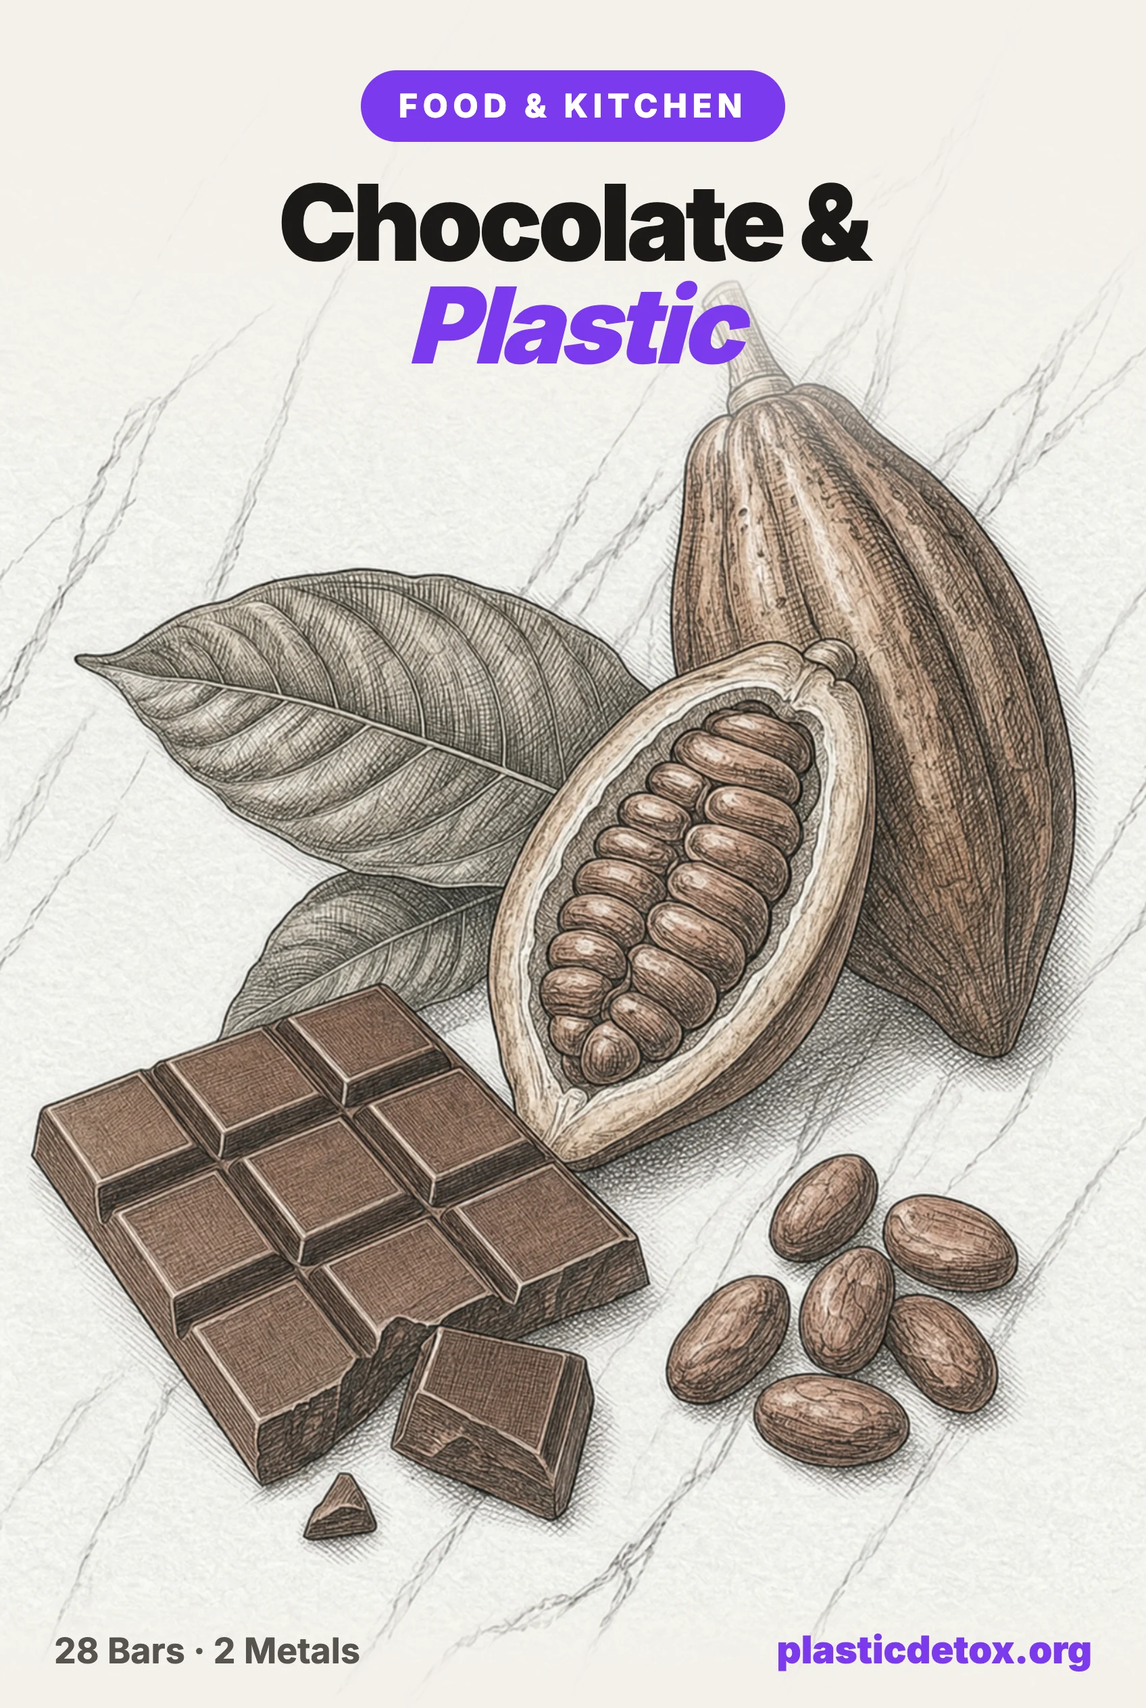
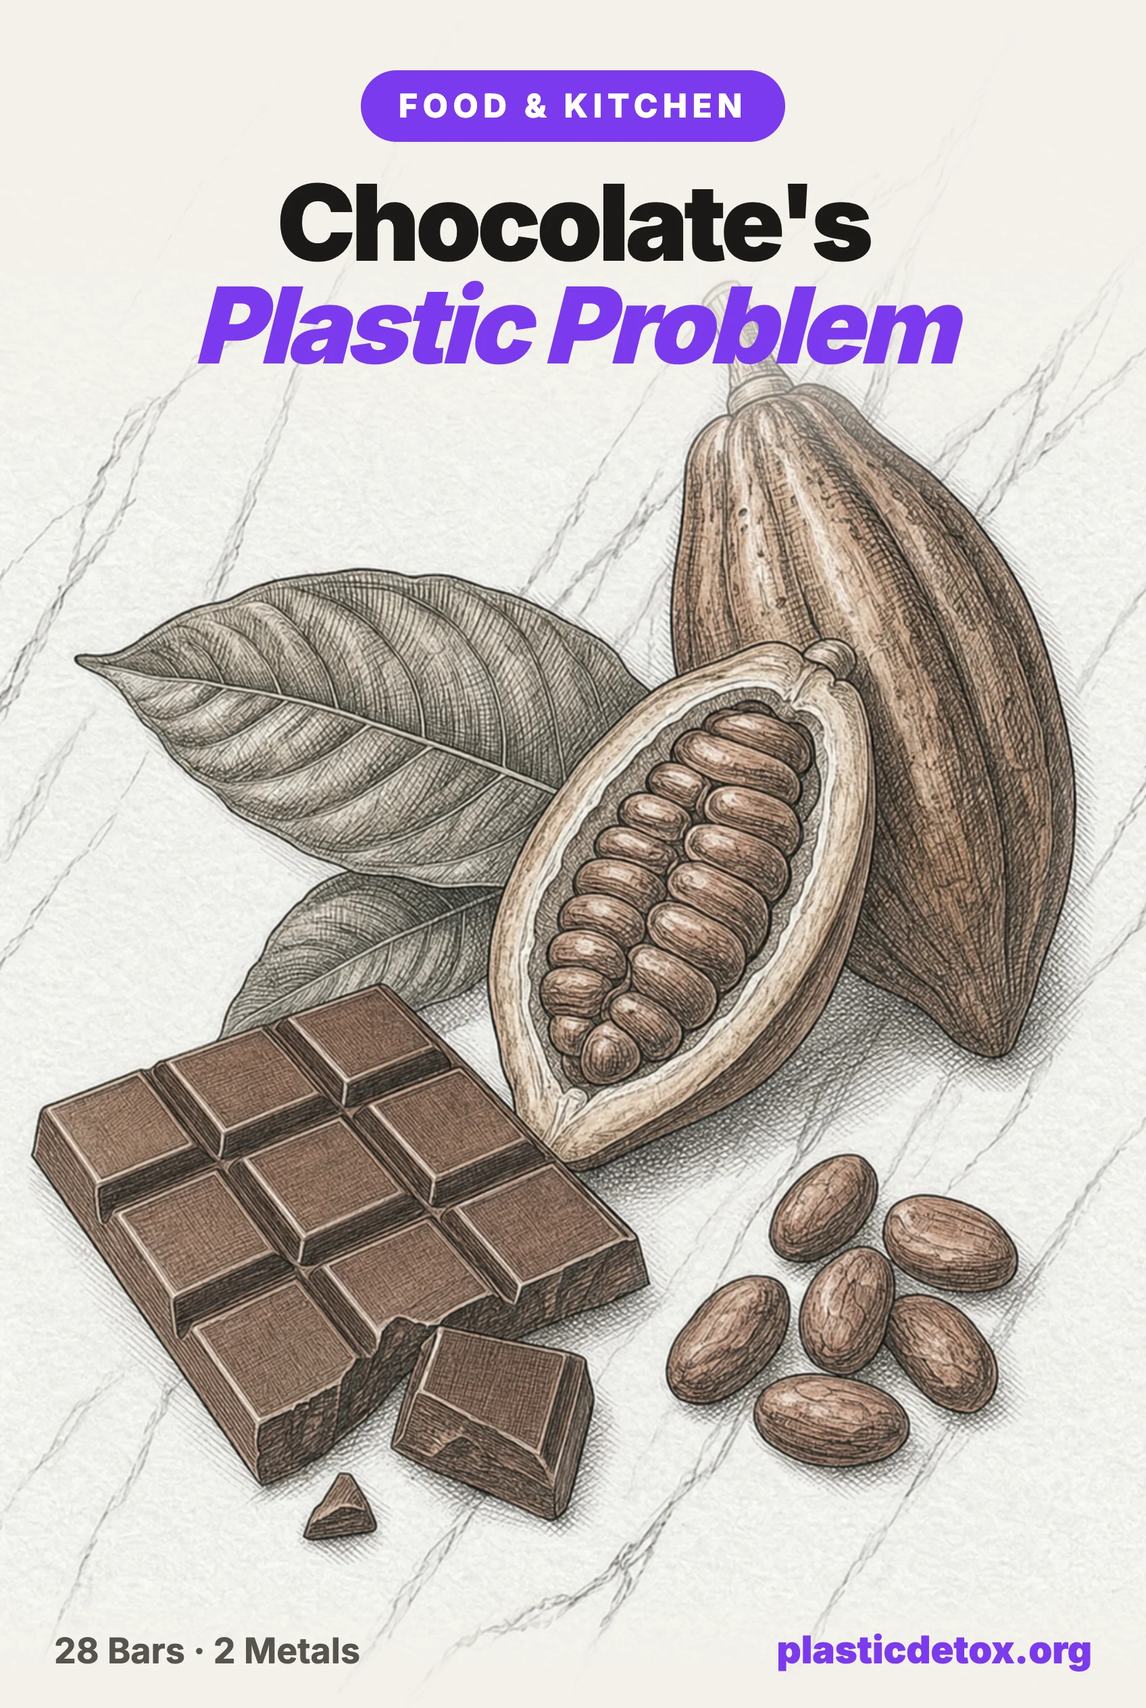
Retitle for hero consistency, sharpen the headline, and answer plastic-free chocolate
Anya caught two things: the page title still said the old "Chocolate Brands
Tested for Lead and Cadmium: 28 Bars Compared" after the hero got its plastic
angle, and the hero headline "Chocolate & Plastic" was flat. Retitled
everywhere (title, H1, meta, OG, Twitter, JSON-LD, both breadcrumbs, homepage
card) to "Chocolate's Plastic Problem: 28 Brands Tested for Lead and Cadmium
(2026)", and re-rendered the hero with "Chocolate's / Plastic Problem" as the
baked-in headline, diffed against the canonical template again to confirm
only the five content lines moved.

Also, two content requests: linked all five of the "safer" bars named in the
TL;DR bullet (Mast, Taza, Valrhona, both Ghirardelli variants) to verified
live ASINs instead of leaving them as plain text. And answered "what about
chocolate without plastic": Alter Eco and Equal Exchange both use genuine
plastic free cellulose wrappers (Alter Eco built the first home compostable
candy wrapper in 2013), while Hershey's is on record dropping foil for direct
plastic film in 2003. Worth knowing before treating it as a positive signal:
Alter Eco and Equal Exchange are also two of the worst cadmium results in the
whole 28 bar dataset, 204 and 120 percent of California's limit. Packaging
virtue and formula safety are separate checks, one does not imply the other.
Added as a new FAQ, a callout in the plastic section, and matching sources.

Changed region(s): [[0.1562, 0.0938, 0.8438, 0.2188]]

diff --git a/articles/chocolate-brands-tested-for-lead-and-cadmium.html b/articles/chocolate-brands-tested-for-lead-and-cadmium.html
@@ -7,14 +7,14 @@
        name and gives the page no say in it, which on an individual developer
        account is a person's legal name above every page on the site. -->
   <script src="/js/app-banner.js" defer></script>
-  <title>Chocolate Brands Tested for Lead and Cadmium (2026): 28 Bars Compared | Plastic Detox</title>
-  <meta name="description" content="Independent lab testing of 28 dark chocolate bars found lead and cadmium in every single one, and 23 of them broke California's own legal warning threshold. See the full brand by brand results, why milk chocolate is not automatically safer, and what actually reduces the risk.">
+  <title>Chocolate's Plastic Problem: 28 Brands Tested for Lead and Cadmium (2026) | Plastic Detox</title>
+  <meta name="description" content="Independent lab testing of 28 dark chocolate bars found lead and cadmium in every single one, and 23 broke California's own legal warning threshold. Also: what a plastic wrapper and a hot cocoa pod can add to it. See the full brand by brand results.">
   <link rel="icon" type="image/png" sizes="48x48" href="../favicon.png">
   <link rel="icon" type="image/svg+xml" href="../favicon.svg">
   <link rel="canonical" href="https://plasticdetox.org/articles/chocolate-brands-tested-for-lead-and-cadmium.html">
 
   <meta property="og:type" content="article">
-  <meta property="og:title" content="Chocolate Brands Tested for Lead and Cadmium (2026): 28 Bars Compared">
+  <meta property="og:title" content="Chocolate's Plastic Problem: 28 Brands Tested for Lead and Cadmium (2026)">
   <meta property="og:description" content="Independent lab testing of 28 dark chocolate bars found lead and cadmium in every single one, and 23 broke California's own legal warning threshold. See the full results, brand by brand.">
   <meta property="og:image" content="https://plasticdetox.org/images/chocolate-brands-tested-for-lead-and-cadmium-article-hero.webp">
   <meta property="og:image:width" content="848">
@@ -23,7 +23,7 @@
   <meta property="og:site_name" content="Plastic Detox">
 
   <meta name="twitter:card" content="summary_large_image">
-  <meta name="twitter:title" content="Chocolate Brands Tested for Lead and Cadmium (2026): 28 Bars Compared">
+  <meta name="twitter:title" content="Chocolate's Plastic Problem: 28 Brands Tested for Lead and Cadmium (2026)">
   <meta name="twitter:description" content="Independent lab testing found lead and cadmium in all 28 dark chocolate bars tested, and 23 broke California's own legal warning threshold. Here is what the numbers show, brand by brand.">
   <meta name="twitter:image" content="https://plasticdetox.org/images/chocolate-brands-tested-for-lead-and-cadmium-article-hero.webp">
 
@@ -35,7 +35,7 @@
   {
     "@context": "https://schema.org",
     "@type": "Article",
-    "headline": "Chocolate Brands Tested for Lead and Cadmium (2026): 28 Bars Compared",
+    "headline": "Chocolate's Plastic Problem: 28 Brands Tested for Lead and Cadmium (2026)",
     "description": "Independent lab testing of 28 dark chocolate bars found lead and cadmium in every single one, and 23 of them broke California's own legal warning threshold. See the full brand by brand results and what actually reduces the risk.",
     "image": "https://plasticdetox.org/images/chocolate-brands-tested-for-lead-and-cadmium-article-hero.webp",
     "author": { "@type": "Organization", "name": "Plastic Detox Editorial Team", "url": "https://plasticdetox.org/about.html" },
@@ -106,6 +106,14 @@
           "@type": "Answer",
           "text": "Hot cocoa K-Cups from Swiss Miss and Starbucks use the same single serve plastic pod format as coffee K-Cups, near boiling water forced through a sealed plastic capsule under pressure. A 2020 McGill University study found a single plastic coffee pod releases 2.3 to 7.9 billion nanoplastic particles into one cup; no test has been run on a hot cocoa pod specifically, but the pod material and brewing mechanism are identical, so there is no reason to expect a different result. Loose cocoa powder whisked into hot milk or water heated on a stovetop or kettle avoids the pod entirely."
         }
+      },
+      {
+        "@type": "Question",
+        "name": "Are there chocolate bars without plastic packaging?",
+        "acceptedAnswer": {
+          "@type": "Answer",
+          "text": "Yes, and it is a real material, not a greenwashing claim. Alter Eco built the first home compostable candy wrapper in 2013 using Natureflex, a cellulose film made from FSC certified eucalyptus and birch, and Equal Exchange wraps its bars in a similar wood pulp cellulose film. Hershey's, by contrast, is on record dropping its classic foil wrap for a direct plastic film wrapper in 2003 to extend shelf life. But a plastic free wrapper says nothing about what is in the chocolate: Alter Eco's cadmium tested at 204 percent of California's legal limit, the second worst of the 28 bars in this dataset, and Equal Exchange's at 120 percent. Packaging and formula are two separate checks, and neither predicts the other."
+        }
       }
     ]
   }
@@ -119,7 +127,7 @@
     "itemListElement": [
       {"@type": "ListItem", "position": 1, "name": "Home", "item": "https://plasticdetox.org/"},
       {"@type": "ListItem", "position": 2, "name": "Articles", "item": "https://plasticdetox.org/#articles"},
-      {"@type": "ListItem", "position": 3, "name": "Chocolate Brands Tested for Lead and Cadmium", "item": "https://plasticdetox.org/articles/chocolate-brands-tested-for-lead-and-cadmium.html"}
+      {"@type": "ListItem", "position": 3, "name": "Chocolate's Plastic Problem", "item": "https://plasticdetox.org/articles/chocolate-brands-tested-for-lead-and-cadmium.html"}
     ]
   }
   </script>
@@ -207,11 +215,11 @@
 
   <article class="article">
     <div class="article-breadcrumb">
-      <a href="../">Home</a> / <a href="../#articles">Articles</a> / Chocolate Brands Tested for Lead and Cadmium
+      <a href="../">Home</a> / <a href="../#articles">Articles</a> / Chocolate's Plastic Problem
     </div>
 
     <div class="article-tag">Food &amp; Kitchen</div>
-    <h1>Chocolate Brands Tested for Lead and Cadmium (2026): 28 Bars Compared</h1>
+    <h1>Chocolate's Plastic Problem: 28 Brands Tested for Lead and Cadmium (2026)</h1>
     <div class="article-byline">By the <a href="../about.html">Plastic Detox Editorial Team</a></div>
     <div class="article-meta">
       Updated September 29, 2026 · 15 min read · <em>This article contains affiliate links. If you purchase through our links, we may earn a small commission at no extra cost to you.</em>
@@ -222,7 +230,7 @@
         <svg viewBox="0 0 24 24"><path d="M12 0C5.373 0 0 5.373 0 12c0 5.084 3.163 9.426 7.627 11.174-.105-.949-.2-2.405.042-3.441.218-.937 1.407-5.965 1.407-5.965s-.359-.719-.359-1.782c0-1.668.967-2.914 2.171-2.914 1.023 0 1.518.769 1.518 1.69 0 1.029-.655 2.568-.994 3.995-.283 1.194.599 2.169 1.777 2.169 2.133 0 3.772-2.249 3.772-5.495 0-2.873-2.064-4.882-5.012-4.882-3.414 0-5.418 2.561-5.418 5.207 0 1.031.397 2.138.893 2.738a.36.36 0 0 1 .083.345l-.333 1.36c-.053.22-.174.267-.402.161-1.499-.698-2.436-2.889-2.436-4.649 0-3.785 2.75-7.262 7.929-7.262 4.163 0 7.398 2.967 7.398 6.931 0 4.136-2.607 7.464-6.227 7.464-1.216 0-2.359-.631-2.75-1.378l-.748 2.853c-.271 1.043-1.002 2.35-1.492 3.146C9.57 23.812 10.763 24 12 24c6.627 0 12-5.373 12-12S18.627 0 12 0z"/></svg>
         Save
       </a>
-      <img class="pin-img" fetchpriority="high" src="../images/chocolate-brands-tested-for-lead-and-cadmium-article-hero.webp" alt="Pencil illustration of chocolate bars and a cacao pod with the headline chocolate and plastic" data-pin-description="Independent testing of 28 dark chocolate bars found lead and cadmium in every single one, and 23 broke California's own legal warning threshold. See the full results by brand.">
+      <img class="pin-img" fetchpriority="high" src="../images/chocolate-brands-tested-for-lead-and-cadmium-article-hero.webp" alt="Pencil illustration of chocolate bars and a cacao pod with the headline chocolate's plastic problem" data-pin-description="Independent testing of 28 dark chocolate bars found lead and cadmium in every single one, and 23 broke California's own legal warning threshold. See the full results by brand.">
     </div>
 
     <p>Consumer Reports sent 28 dark chocolate bars to an independent lab in 2022 and detected both lead and cadmium in every one of them. For 23 of the 28, an ounce a day was enough to exceed California's own legal threshold for at least one of the two metals, the level that by law has to trigger a cancer and reproductive harm warning label. This is not a new scare or a single bad batch. It is a decade old, heavily litigated, extensively tested problem that the chocolate industry itself has funded research into and still has not fixed. Here is what the actual numbers show, brand by brand, and what to do with that information.</p>
@@ -234,7 +242,7 @@
         <li><strong>The two metals get into cacao through completely different routes.</strong> Cadmium is absorbed from the soil as the tree grows. Lead lands on the outside of the bean as it dries in the open, picked up from dust and dirt, often near roads.</li>
         <li><strong>Organic is not a shortcut to clean.</strong> Several of the worst results, including Alter Eco, Equal Exchange, Endangered Species and Theo, were organic certified. Organic rules govern pesticides, not heavy metals.</li>
         <li><strong>This has been litigated since 2014 and is still not resolved.</strong> A 2018 settlement with 31 chocolate makers funded independent research and set the thresholds Consumer Reports later tested against. Hershey's own products have failed two separate rounds of independent testing since.</li>
-        <li><strong>Five bars tested meaningfully lower than the rest.</strong> One each from Mast, Taza and Valrhona, and two from Ghirardelli, though none was a clean, non detect result.</li>
+        <li><strong>Five bars tested meaningfully lower than the rest.</strong> One each from <a href="https://www.amazon.com/dp/B0DDJTJPRP?tag=plasticdetox-20" target="_blank" rel="noopener sponsored">Mast</a>, <a href="https://www.amazon.com/dp/B07XDP4CP1?tag=plasticdetox-20" target="_blank" rel="noopener sponsored">Taza</a> and <a href="https://www.amazon.com/dp/B00G9Q6W3I?tag=plasticdetox-20" target="_blank" rel="noopener sponsored">Valrhona</a>, and two from Ghirardelli (<a href="https://www.amazon.com/dp/B07PL9ZRYG?tag=plasticdetox-20" target="_blank" rel="noopener sponsored">86%</a> and <a href="https://www.amazon.com/dp/B000YUMGMQ?tag=plasticdetox-20" target="_blank" rel="noopener sponsored">Twilight Delight</a>), though none was a clean, non detect result.</li>
         <li><strong>This is also a plastic problem, not just a metals one.</strong> Chocolate is nearly half fat, the worst case pairing for plastic contact, and mineral oil and phthalates have both been measured migrating from wrappers into chocolate. Hot cocoa K-Cup pods use the same mechanism shown to shed billions of nanoplastic particles per cup in coffee pods.</li>
       </ul>
 
@@ -268,7 +276,9 @@
 
     <p>Chocolate is close to half fat by weight, cocoa butter, and fat is the single most aggressive thing there is at pulling chemicals out of a plastic. Under the same materials standard we hold every product on this site to, a fatty, unheated food sitting in direct plastic contact for weeks or months is already a caution against a plain polyolefin wrapper and a fail against PET, PVC, or polystyrene, the same tier as a lip balm or a butter tub, not the tier a dry powder like flour or the cinnamon we tested sits in. That is a completely different exposure question from lead and cadmium, and this article did not ask it the first time.</p>
 
-    <p>Most chocolate bars use two layers: a printed outer sleeve, usually paper, and an inner wrap directly against the chocolate, which is either true aluminum foil or a metallized plastic film that looks identical to foil in a product photo but is chemically a different thing. Foil is inert. A metallized film is a plastic base with a thin aluminum coating, and what it can shed depends on that base plastic, the same as any other wrapper. Almost no brand states which one is against the chocolate, including <a href="https://www.amazon.com/dp/B0DDJTJPRP?tag=plasticdetox-20" target="_blank" rel="noopener sponsored">Mast</a>, our own pick further down: its listing discloses a "100% recyclable paper" outer sleeve and says nothing about the inner layer. That silence is itself the finding under our own rules, not something we can wave away by looking at a photo.</p>
+    <p>Most chocolate bars use two layers: a printed outer sleeve, usually paper, and an inner wrap directly against the chocolate, which is either true aluminum foil or a metallized plastic film that looks identical to foil in a product photo but is chemically a different thing. Foil is inert. A metallized film is a plastic base with a thin aluminum coating, and what it can shed depends on that base plastic, the same as any other wrapper. Almost no brand states which one is against the chocolate, including <a href="https://www.amazon.com/dp/B0DDJTJPRP?tag=plasticdetox-20" target="_blank" rel="noopener sponsored">Mast</a>, our own pick further down: its listing discloses a "100% recyclable paper" outer sleeve and says nothing about the inner layer. That silence is itself the finding under our own rules, not something we can wave away by looking at a photo. One brand is on record doing the opposite of the quiet, unhelpful thing: Hershey's confirms it dropped its classic foil wrap for a direct plastic film wrapper in 2003, trading the one packaging choice that would have kept the bar's fat away from plastic entirely for a longer shelf life.</p>
+
+    <p>Plastic free wrapper technology does exist, and it is not greenwashing. Alter Eco built the first home compostable candy wrapper in 2013, a cellulose film called Natureflex made from FSC certified eucalyptus and birch, and Equal Exchange wraps its bars in a similar wood pulp cellulose film. Both are genuinely plastic free where Hershey's is confirmed plastic. But a clean wrapper and a clean bar are two different checks, and this dataset makes that split obvious: Alter Eco's cadmium came back at 204 percent of California's limit, the second worst of all 28 bars tested, and Equal Exchange's at 120 percent. The two brands doing the most visible, most genuine work on packaging are not the two doing the best work on what is actually in the chocolate.</p>
 
     <div class="callout-warning">
       <div class="callout-title">This Is Not Hypothetical</div>
@@ -439,11 +449,15 @@
         <summary class="faq-question">Are hot cocoa K-Cup pods safe?</summary>
         <p class="faq-answer">Hot cocoa K-Cups from Swiss Miss and Starbucks use the same single serve plastic pod format as coffee K-Cups, near boiling water forced through a sealed plastic capsule under pressure. A 2020 McGill University study found a single plastic coffee pod releases 2.3 to 7.9 billion nanoplastic particles into one cup; no test has been run on a hot cocoa pod specifically, but the pod material and brewing mechanism are identical, so there is no reason to expect a different result. Loose cocoa powder whisked into hot milk or water heated on a stovetop or kettle avoids the pod entirely.</p>
       </details>
+      <details class="faq-item">
+        <summary class="faq-question">Are there chocolate bars without plastic packaging?</summary>
+        <p class="faq-answer">Yes, and it is a real material, not a greenwashing claim. Alter Eco built the first home compostable candy wrapper in 2013 using Natureflex, a cellulose film made from FSC certified eucalyptus and birch, and Equal Exchange wraps its bars in a similar wood pulp cellulose film. Hershey's, by contrast, is on record dropping its classic foil wrap for a direct plastic film wrapper in 2003 to extend shelf life. But a plastic free wrapper says nothing about what is in the chocolate: Alter Eco's cadmium tested at 204 percent of California's legal limit, the second worst of the 28 bars in this dataset, and Equal Exchange's at 120 percent. Packaging and formula are two separate checks, and neither predicts the other.</p>
+      </details>
     </div>
 
     <div class="callout">
       <div class="callout-title">Sources</div>
-      Consumer Reports. "Lead and Cadmium Could Be in Your Dark Chocolate." Kevin Loria, December 15, 2022, updated October 25, 2023. | Consumer Reports. "Consumer Reports Urges Hershey's to Get Heavy Metals Out of Chocolate Products." Press release, October 25, 2023. | As You Sow. "Toxic Chocolate." asyousow.org, ongoing enforcement program since 2014. | As You Sow. "Expert Investigation Related to Cocoa and Chocolate Products," 2022, the research funded by the 2018 settlement. | Lazazzaro v. The Hershey Company, S.D.N.Y., filed December 28, 2022, voluntarily dismissed February 2024. | Lead Safe Mama, LLC. Independent lab testing of cocoa powder and chocolate products, 2024 to 2026, tamararubin.com. | Foodwatch. Laboratory testing of 20 Christmas chocolates for mineral oil hydrocarbons, December 2016. | "Migration of phthalates from plastic packages to convenience foods and its cumulative health risk assessments." Food Additives &amp; Contaminants: Part B, 2019. | Hernandez et al., McGill University, 2020, independent lab testing of nanoplastic and microplastic release from single serve plastic coffee pods, cited here for the shared pod mechanism.
+      Consumer Reports. "Lead and Cadmium Could Be in Your Dark Chocolate." Kevin Loria, December 15, 2022, updated October 25, 2023. | Consumer Reports. "Consumer Reports Urges Hershey's to Get Heavy Metals Out of Chocolate Products." Press release, October 25, 2023. | As You Sow. "Toxic Chocolate." asyousow.org, ongoing enforcement program since 2014. | As You Sow. "Expert Investigation Related to Cocoa and Chocolate Products," 2022, the research funded by the 2018 settlement. | Lazazzaro v. The Hershey Company, S.D.N.Y., filed December 28, 2022, voluntarily dismissed February 2024. | Lead Safe Mama, LLC. Independent lab testing of cocoa powder and chocolate products, 2024 to 2026, tamararubin.com. | Foodwatch. Laboratory testing of 20 Christmas chocolates for mineral oil hydrocarbons, December 2016. | "Migration of phthalates from plastic packages to convenience foods and its cumulative health risk assessments." Food Additives &amp; Contaminants: Part B, 2019. | Hernandez et al., McGill University, 2020, independent lab testing of nanoplastic and microplastic release from single serve plastic coffee pods, cited here for the shared pod mechanism. | Mashed. "The Reason Hershey's Chocolate Bar Ditched Its Foil Wrapper." On Hershey's 2003 switch from foil to a direct plastic film wrapper. | Alter Eco Foods. "Breaking Down Compostability." alterecofoods.com, on its Natureflex cellulose wrapper, introduced 2013. | Equal Exchange. "Compostable Chocolate Packaging." info.equalexchange.coop, on its wood pulp cellulose wrapper.
     </div>
 
     <aside class="email-cta" data-email-cta-injected>

diff --git a/index.html b/index.html
@@ -2758,7 +2758,7 @@
           <a href="articles/chocolate-brands-tested-for-lead-and-cadmium.html" class="article-card" data-date="2026-09-29" data-popular="1" data-categories="food,kitchen">
             <div class="article-card-body">
               <span class="article-card-tag">Food &amp; Kitchen</span>
-              <h2 class="article-card-title">Chocolate Brands Tested for Lead and Cadmium (2026): 28 Bars Compared</h2>
+              <h2 class="article-card-title">Chocolate's Plastic Problem: 28 Brands Tested for Lead and Cadmium (2026)</h2>
               <p class="article-card-excerpt">Independent lab testing of 28 dark chocolate bars found lead and cadmium in every single one, and 23 broke California's own legal warning threshold. See the full results, brand by brand.</p>
               <div class="article-card-meta">
                 <span>15 min read</span>

diff --git a/images/chocolate-brands-tested-for-lead-and-cadmium-article-hero.html b/images/chocolate-brands-tested-for-lead-and-cadmium-article-hero.html
@@ -79,7 +79,7 @@
     <img src="chocolate.png" alt="Illustration of chocolate bars and cacao pods on marble">
     <div class="top-overlay">
       <div class="headline-tag">Food &amp; Kitchen</div>
-      <h1>Chocolate &amp;<br><span class="accent">Plastic</span></h1>
+      <h1>Chocolate's<br><span class="accent">Plastic Problem</span></h1>
     </div>
     <div class="footer">
       <div class="footer-stat">28 Bars &middot; 2 Metals</div>
